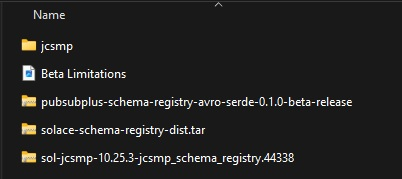
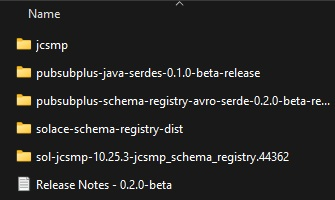
Updated files for schema registry beta 2.

Changed region(s): [[0.0299, 0.3352, 0.9851, 0.9777], [0.0, 0.0, 1.0, 0.1117], [0.0299, 0.1955, 0.209, 0.3073]]

diff --git a/markdown/schema-registry-beta/schema-registry-beta.md b/markdown/schema-registry-beta/schema-registry-beta.md
@@ -11,7 +11,7 @@ feedback link: https://github.com/SolaceDev/solace-dev-codelabs/blob/master/mark
 
 ## What you'll learn: Overview
 
-Duration: 0:01:00
+Duration: 0:05:00
 
 In today's data-driven world, ensuring data consistency and interoperability across different systems is crucial. This is where a schema registry comes into play. In this walkthrough, we'll explore how to use a schema registry (Apicurio Registry) with the Solace JCSMP API, focusing on the Apache Avro format for schema definition.
 
@@ -26,7 +26,7 @@ You'll learn about:
 
 ## What you need: Prerequisites
 
-Duration: 0:01:00
+Duration: 0:07:00
 
 1. A general understanding of [event-driven architecture (EDA) terms and concepts](https://docs.solace.com/#Messaging).
 2. A locally running PubSub+ Broker or a free trial account of Solace PubSub+ Cloud. Don't have one? [Sign up here.](https://console.solace.cloud/login/new-account)
@@ -35,15 +35,15 @@ Duration: 0:01:00
 4. [Docker](https://docs.docker.com/get-started/get-docker/) installed on your system
 5. [Java Development Kit (JDK) version 11+](https://openjdk.org/) installed on your system
 6. An IDE of your choice (e.g., IntelliJ IDEA, Eclipse, Visual Studio Code)
-7. Download the provided BETA zip package named ```Schema-Registry-Beta-Package_0.1.0.zip``` that contains all the necessary pieces you will need. This is available on the [Solace Product Portal](https://products.solace.com/products/0.1Beta/Schema_Registry_Beta/Current/0.1.0/) and unzip it to your preferred directory.
+7. Download the provided BETA zip package named ```Schema-Registry-Beta-Package_(latest-version).zip``` that contains all the necessary pieces you will need. This is available on the [Solace Product Portal](https://products.solace.com/prods/Schema_Registry_Beta/) and unzip it to your preferred directory.
 
-NOTE: If you cannot access the [Solace Product Portal](https://products.solace.com/products/0.1Beta/Schema_Registry_Beta/Current/0.1.0/), please click the ```Report a mistake``` at the bottom left of the codelab and open an issue asking for access.
+NOTE: If you cannot access the [Solace Product Portal](https://products.solace.com/prods/Schema_Registry_Beta/), please click the ```Report a mistake``` at the bottom left of the codelab and open an issue asking for access.
 > aside positive
 > This walkthrough uses Apicurio Registry for schema management, which we'll set up using Docker Compose.
 
 ## What Is A Schema Registry
 
-Duration: 0:02:00
+Duration: 0:10:00
 
 A schema registry is a central repository for managing and storing schemas. It helps ensure data consistency, enables data governance, and supports schema evolution. Here's why it's important:
 
@@ -57,7 +57,7 @@ A schema registry is a central repository for managing and storing schemas. It h
 
 ## What Is A SERDEs
 
-Duration: 0:02:00
+Duration: 0:05:00
 
 A SERDEs (Serializer/Deserializer) in the context of a schema registry is a component that handles two key functions:
 1. **Serialization**: Converting data objects from their native format (like Java objects) into a binary format suitable for transmission or storage.
@@ -81,7 +81,7 @@ This is a fundamental concept in message-based systems where data needs to be:
 
 ## Setting up Apicurio Registry
 
-Duration: 0:06:00
+Duration: 0:15:00
 
 We'll use Docker Compose to set up the Apicurio Registry quickly and easily. We've prepared a Docker Compose file that will launch an instance of the Apicurio Registry and all the necessary components with a pre-defined configuration.
 
@@ -91,19 +91,17 @@ We'll use Docker Compose to set up the Apicurio Registry quickly and easily. We'
 </p>
 
 
-2. Extract the tar folder named ```solace-schema-registry-dist.tar```.
+2. Open a terminal or command prompt window and navigate to the extracted location of the folder called ```solace-schema-registry-dist```.
 
-3. Open a terminal or command prompt window and navigate to the extracted location of the folder called ```solace-schema-registry-dist```.
-
-4. Optionally you can make changes to the ```.env``` file to change things such as default login or ports. We will leave everything to defaults for this codelab.
+3. Optionally you can make changes to the ```.env``` file to change things such as default login or ports. We will leave everything to defaults for this codelab.
 
 <p align="center">
   <img src="img/EnvFile.jpg" />
 </p>
 
-5. Run the following command: ```docker compose up -d``` and all the components will start up with the default values configured.
+4. Run the following command: ```docker compose up -d``` and all the components will start up with the default values configured.
 
-6. Once the script is done running, you should now be able to go to your browser and navigate to ```localhost:8888``` which should re-direct you to the Apicurio Registry login screen.
+5. Once the script is done running, you should now be able to go to your browser and navigate to ```localhost:8888``` which should re-direct you to the Apicurio Registry login screen.
 
 <p align="center">
   <img src="img/SrLoginEmpty.jpg" />
@@ -113,7 +111,7 @@ That's it, you have now installed an instance of the Apicurio Registry with the 
 
 ## Creating and Registering Schemas
 
-Duration: 0:04:00
+Duration: 0:15:00
 
 Let's create a simple schema for a ```User``` event:
 
@@ -125,8 +123,8 @@ Let's create a simple schema for a ```User``` event:
 </p>
 
 3. Click on ```Create artifact``` button. Once the dialogue opens enter the following as shown below:
-    * Group Id: Set to ```com.solace.samples.serdes.avro.schema```
-    * Artifact Id: Set to ```User```
+    * Group Id: Leave it empty (default)
+    * Artifact Id: Set to ```solace/samples```
     * Type: Set to ```Avro Schema```   
 
 <p align="center">
@@ -168,23 +166,17 @@ You've now created and registered your first schema!
 
 ## Using Schemas with the Solace Messaging API for Java (JCSMP) (Work in Progress)
 
-Duration: 0:09:00
+Duration: 0:30:00
 
 Now, let's see how to use this schema in Java using the Solace Messaging API for Java (JCSMP):
 
-1. Extract the SERDEs zip called ```pubsubplus-schema-registry-avro-serde-0.1.0-beta-release.zip``` and extract the JCSMP zip called ```sol-jcsmp-10.25.3-jcsmp_schema_registry.44338.zip```
+1. Open a command window or terminal in the ```Schema-Registry-Beta-Package/jcsmp-samples``` directory.
 
-2. In a new window, navigate to the ```Schema-Registry-Beta-Package/jcsmp``` folder. This is where you will find the sample application.
+NOTE: For winows users, use the ```gradlew.bat``` file instead of ```gradlew``` in the below steps.
 
-3. Create a new folder called ```lib``` and copy the contents of ```pubsubplus-schema-registry-avro-serde-0.1.0-beta-release.zip/lib``` and ```sol-jcsmp-10.25.3-jcsmp_schema_registry.44338/lib``` into this new folder.
+2. Run the following command to build the sample on Windows ```./gradlew.bat build``` and . You should see a ```BUILD SUCCESSFUL``` message.          
 
-4. Open a command window or terminal in the ```Schema-Registry-Beta-Package/jcsmp``` directory.
-
-NOTE: For winows users, use the ```gradlew.bat``` file instead of ```gradlew``` in the below steps. For non-Windows users, you will have to run ```chmod +ux gradelw``` to change permissions on ```gradelw```.
-
-5. Run the following command to build the sample on Windows ```./gradlew.bat build``` and . You should see a ```BUILD SUCCESSFUL``` message.          
-
-6. Run the sample application and provide the broker connection details like so ```./gradlew.bat runHelloWorldJCSMPAvroSerde --args="localhost:55555 default default"```. 
+3. Run the sample application and provide the broker connection details like so ```./gradlew.bat runHelloWorldJCSMPAvroSerde --args="localhost:55555 default default"```. 
 
 This sample talks to the locally deployed Apicurio Schema Registry and retrieves the schema along with the schema ID. It will then do the following:
 
@@ -213,7 +205,7 @@ Configures the Serializer and Deserializer:
 ```
 
 
-Serializes the message payload and publishes the message to the connected broker on ```test/topic``` destination with the serialized payload and schema ID:
+Serializes the message payload and publishes the message to the connected broker on ```solace/samples``` destination with the serialized payload and schema ID:
 ```java
    // Create and populate a GenericRecord with sample data
             GenericRecord user = initEmptyUserRecord();
@@ -249,7 +241,7 @@ The sourcecode can be further looked at by opening the ```HelloWorldJCSMPAvroSer
 
 ## Best Practices for Schema Evolution
 
-Duration: 0:02:00
+Duration: 0:10:00
 
 As your data model evolves, you'll need to update your schemas. Here are some best practices:
 
